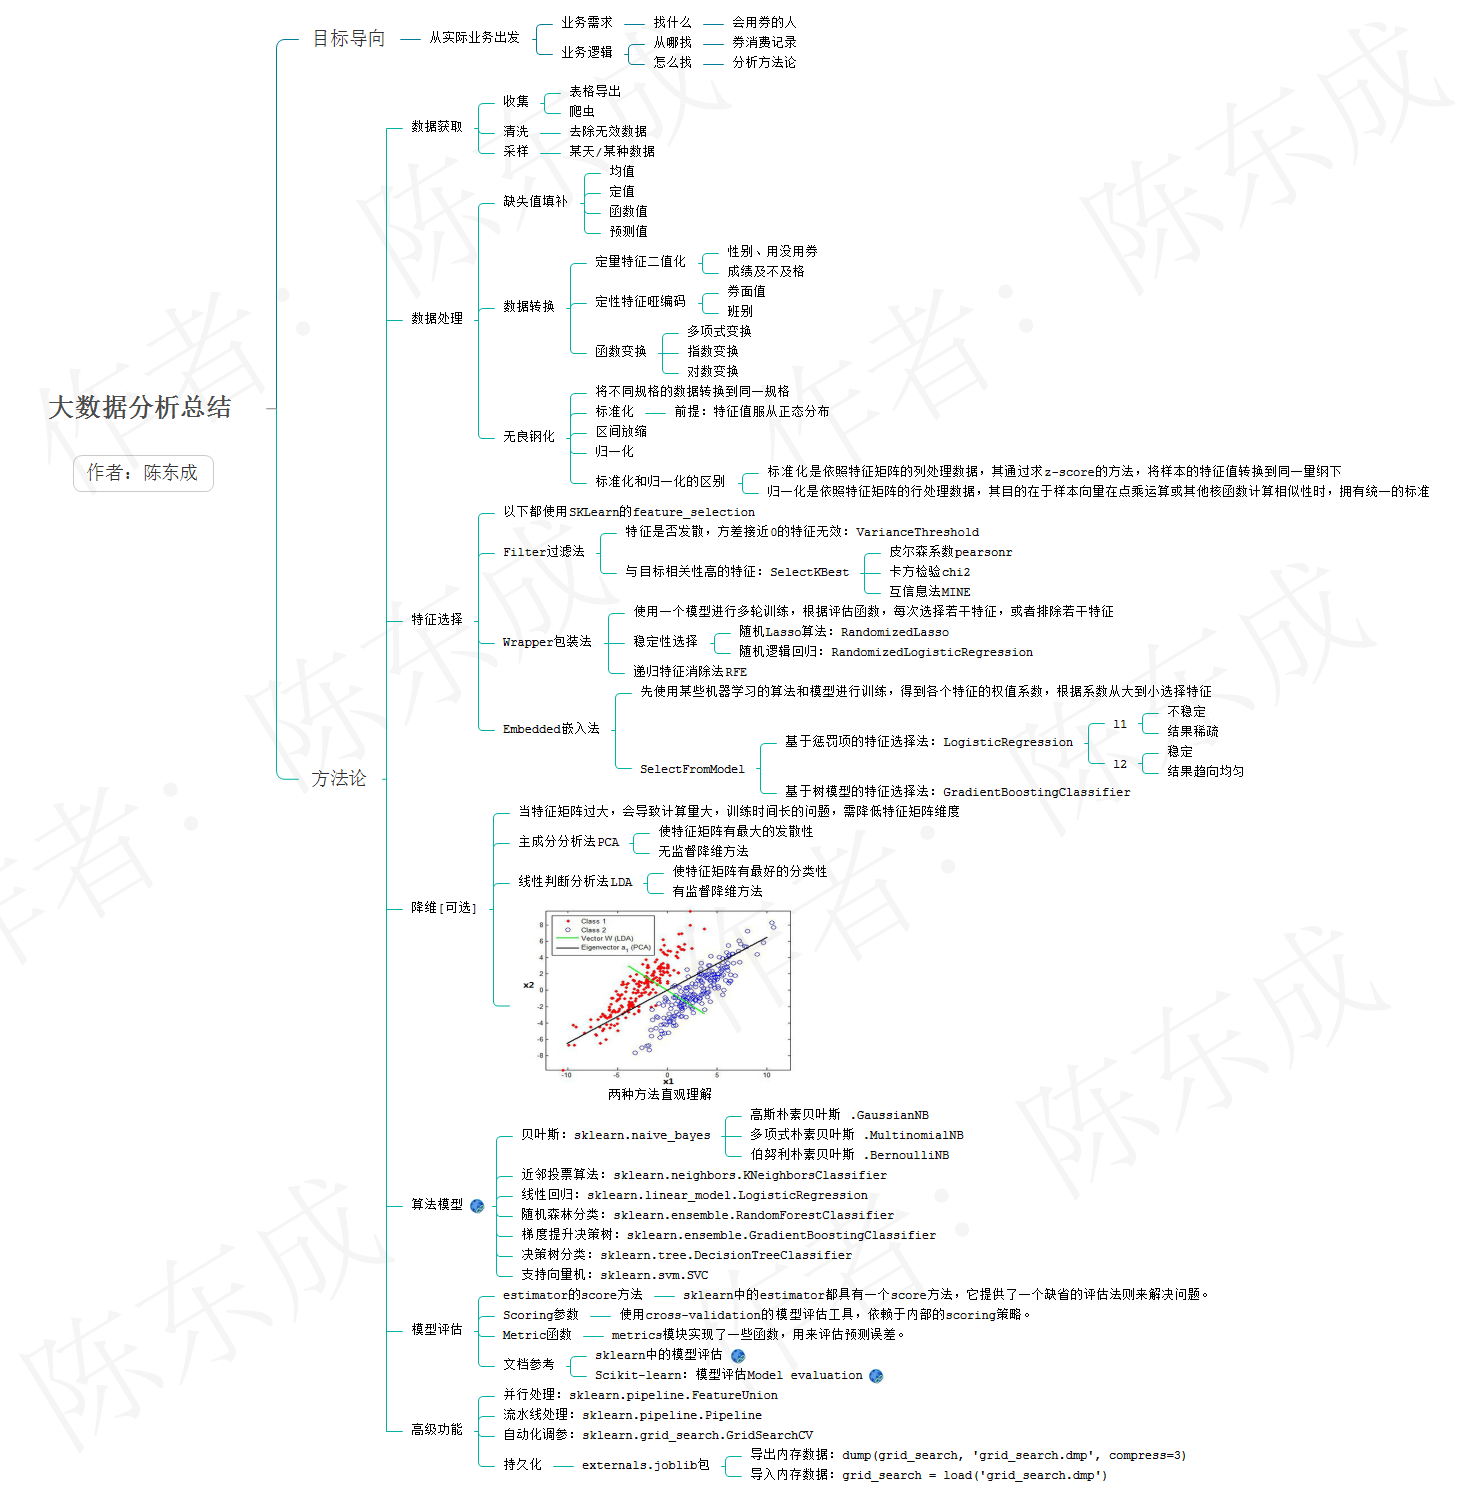
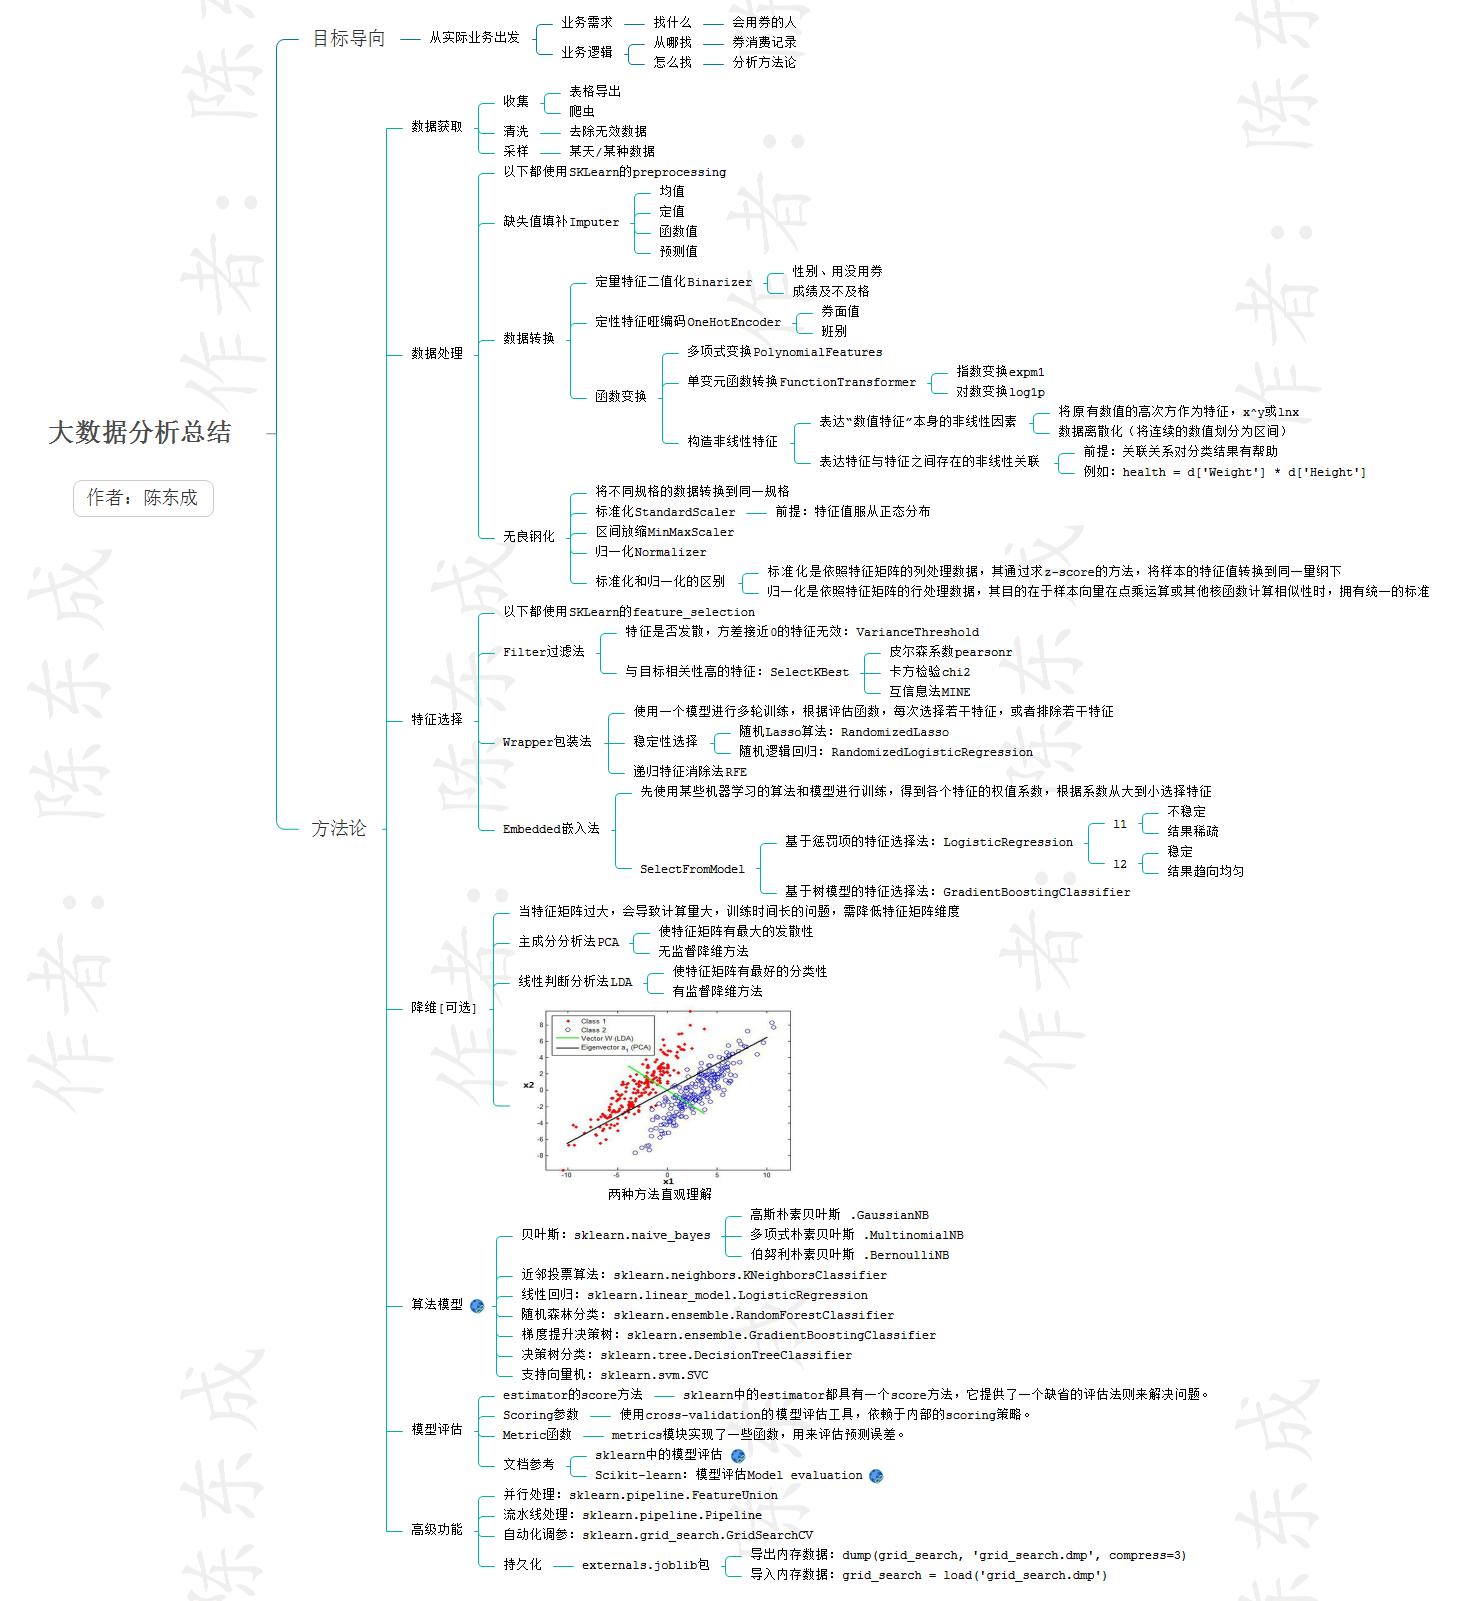
更新数据转换

diff --git a/数据处理II：数据转换.md b/数据处理II：数据转换.md
@@ -3,42 +3,52 @@
 
 > 特征分类
 
-- 数值特征：如年龄、票价等有数量关系的特征
-- 类别特征：如性别、几等舱等没有数量意义的特征
-- 数值特征 与 类别特征 需要分开处理
+- 定量特征：如年龄、票价等有数量关系的特征，可**二值化**或**函数变换**
+- 定性特征：如性别、几等舱等没有数量意义的特征，可**哑编码**或**函数变换**
 
---------------
-> 数值特征归一化
+&emsp;&emsp;定量特征 与 定性特征 需要分开处理
 
-若几种数值特征不在同一可以比较的尺度上，则需要进行归一化
-```
-from sklearn.preprocessing import StandardScaler
-scaler = StandardScaler()
-df['Age_scaled'] = scaler.fit_transform(data['Age']) #年龄
-df['Fare_scaled'] = scaler.fit_transform(data['Fare']) #票价
-```
-由于版本不同，有时会报错：`Expected 2D array, got 1D array instead`，我们可以暂用`data.Age.values.reshape(-1,1)`进行处理。
-```
-df['Age_scaled'] = scaler.fit_transform(data['Age'].values.reshape(-1,1)) #年龄
-df['Fare_scaled'] = scaler.fit_transform(data['Fare'].values.reshape(-1,1)) #票价
-```
-[sklearn.preprocessing.StandardScaler](http://scikit-learn.org/stable/modules/generated/sklearn.preprocessing.StandardScaler.html)<br>
-[numpy.reshape](https://docs.scipy.org/doc/numpy/reference/generated/numpy.reshape.html)<br>
-[Expected 2D array, got 1D array instead](http://blog.csdn.net/llx1026/article/details/77940880)
+-------------
 
-------------------------
-> 处理类别特征缺失
-```
-# 客舱号Cabin缺少程度太严重，数据不可能有效恢复。
-# 虽然Cabin无法提取，但可以转换为“有没有在客舱”
-# 提醒：注意代码顺序不能反
-data.loc[data.Cabin.notnull(), 'Cabin'] = 'Yes' #在客舱
-data.loc[data.Cabin.isnull(), 'Cabin'] = 'No' #不在客舱
-```
-> 重建类别特征
+> 二值化[Binarizer](http://scikit-learn.org/stable/modules/generated/sklearn.preprocessing.Binarizer)
 
-类别特征只有`是`与`不是`两个值。<br>
-因此对于几等舱Pclass(1等舱, 2等舱, 3等舱)等类别特征，需要按类重建特征：
+定量特征二值化的核心在于设定一个阈值，大于阈值的赋值为1，小于等于阈值的赋值为0
+```
+from sklearn.preprocessing import Binarizer
+binarizer = Binarizer(threshold=18, copy=True)
+data['Adult'] = binarizer.fit_transform(data['Age'])
+
+# 等同
+data['Adult'] = (data['Age'] > 18).astype(int)
+```
+
+----------
+
+> 哑编码[OneHotEncoder](http://scikit-learn.org/stable/modules/generated/sklearn.preprocessing.OneHotEncoder)
+
+&emsp;&emsp;数据集中有很多变量类型是Nominal的，对于某些算法而言，完全的Nominal类型的变量是无法计算的，这就需要进行哑编码。
+
+&emsp;&emsp;哑编码是一种状态编码，可将定性特征转为数字，但这些数字没有大小关系。该特征有N类就有N位，某位对应一类，是该类标则该位标1，其余位标0，如：`001`，`010`，`100`，最终形成稀疏矩阵。
+
+```
+from sklearn.preprocessing import OneHotEncoder
+
+# 几等舱Pclass(1等舱, 2等舱, 3等舱)
+data['Pclass'] = OneHotEncoder().fit_transform(data['Pclass'].reshape(-1 ,1))
+
+# 输出
+print data['Pclass'].toarray()
+
+[ [ 0.  0.  1.]
+       ...
+  [ 0.  1.  0.] ]
+```
+
+&emsp;&emsp;这里遇到一个问题：OneHotEncoder编码Embarked会报错`ValueError: could not convert string to float: Q`，暂时未找到解决方法，若要好的解决方法请留言，谢谢。
+
+> 重建定性特征[pandas.get_dummies](http://pandas.pydata.org/pandas-docs/stable/generated/pandas.get_dummies.html)
+
+- 定性特征只有`是`与`非`，因此也可拆分为多个二值化特征：
 ```
 dummies_pclass = pd.get_dummies(data['Pclass'], prefix='Pclass')
 
@@ -47,9 +57,7 @@ print dummies_pclass.head(2)
 |   0.0     |   0.0     |   1.0     |
 |   1.0     |   0.0     |   0.0     |
 ```
-[pandas.get_dummies](http://pandas.pydata.org/pandas-docs/stable/generated/pandas.get_dummies.html)
-
-若像性别一样，只有两种类别，且非此即彼，则可：
+- 若像性别一样，只有两种类别，且非此即彼，则可：
 ```
 data.loc[data.Sex == 'female', 'Sex'] = 1
 data.loc[data.Sex == 'male', 'Sex'] = 0
@@ -59,12 +67,7 @@ print data.Sex.head(2)
 |   0   |
 |   1   |
 ```
-然而经测试，重建列表特征有利于提高准确率，因此尽量进行重建：
-```
-dummies_sex = pd.get_dummies(data['Sex'], prefix='Age')
-dummies_cabin = pd.get_dummies(data['Cabin'], prefix='Cabin')
-```
-对于缺失的特征，重建特征后每个标签值都为0：
+- 对于缺失的特征，重建特征后每个标签值都为0：
 ```
 # Embarked 登船港口有两条数据为null，重建特征后每个标签值为0
 dummies_embarked = pd.get_dummies(data['Embarked'], prefix='Embarked')
@@ -73,7 +76,9 @@ print dummies_embarked.loc[61] #其中Embarked为nan的数据
 |Embarked_C |Embarked_Q |Embarked_S |
 |   0.0     |   0.0     |   0.0     |
 ```
+
 ---------------
+
 > 构造非线性特征
 
 原因：线性模型就是把特征对分类结果的作用加起来（例如：Y = T1 + T2），但线性模型无法表示一些非线性的关系（如：Y = T1 * T2），所以我们打算人工构造一些新特征，弥补线性模型对非线性表达式表达能力的不足。
@@ -92,7 +97,9 @@ df['Child'] = (data['Age'] <= 18).astype(int)
 #设想头等舱的人能受到更好的保护待遇，同时年龄越小的越优先被救助，所以这两个特征是否有一些关联
 df['Age*Pclass_scaled'] = scaler.fit_transform(data['Age'] * data['Pclass'])
 ```
+
 ----------------------
+
 > 特征合并、删除、筛选
 ```
 df = pd.concat([df, dummies_embarked, dummies_sex, dummies_pclass, dummies_cabin], axis=1) #axis=0(index),1(columns)
